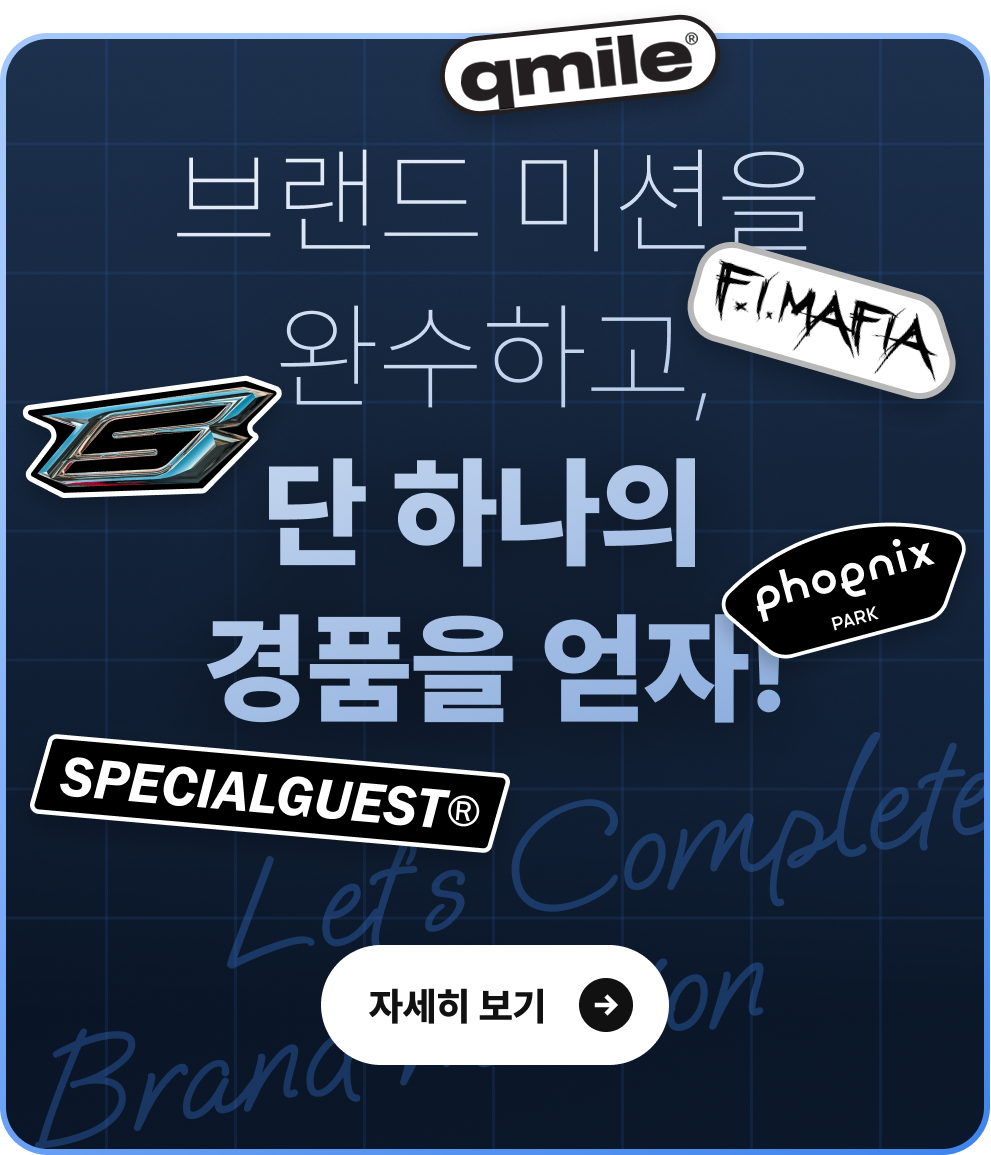
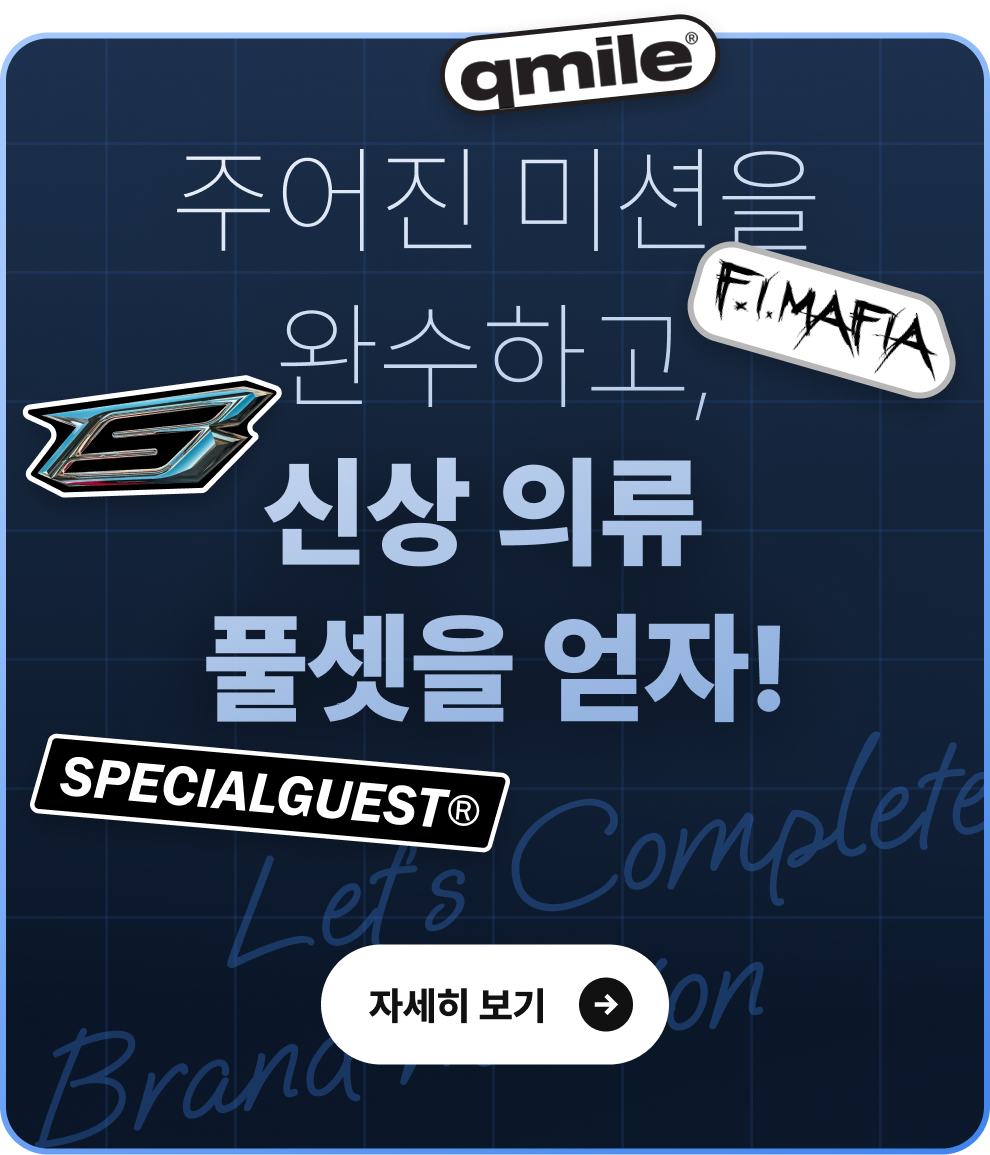
min_1.2.5

diff --git a/lib/view/ranking/v_snowballmarket_home.dart b/lib/view/ranking/v_snowballmarket_home.dart
@@ -563,13 +563,13 @@ class _SnowballMarketHomeViewState extends State<SnowballMarketHomeView> {
                                     fontWeight: FontWeight.bold
                                   ),
                                   ),
-                                  Text('각 브랜드의 미션을 빠르게 완수하고,',
+                                  Text('주어진 미션을 빠르게 완수하고,',
                                     style: TextStyle(
                                         color: Color(0xFFFFFFFF).withOpacity(0.6),
                                         fontSize: 13
                                     ),
                                   ),
-                                  Text('단 하나뿐인 리워드의 주인공이 될 기회를 잡아라!',
+                                  Text('25/26 신상 의류의 주인이 될 기회를 잡아라!',
                                     style: TextStyle(
                                         color: Color(0xFFFFFFFF).withOpacity(0.6),
                                         fontSize: 13
@@ -1494,7 +1494,7 @@ class _SnowballMarketHomeViewState extends State<SnowballMarketHomeView> {
                                     ),
                                     Padding(
                                       padding: EdgeInsets.only(bottom: 8),
-                                      child: Text('단, 황금 눈송이는 1시간에 한 번 랜덤으로 등장해요.\n황금 눈송이가 내리는 위치는 매 정각마다\n눈송이 상점에서 알려드릴게요.',
+                                      child: Text('단, 황금 눈송이는 1시간에 한 번 랜덤으로 등장해요.\n황금 눈송이가 내리는 위치는 매시 정각마다\n눈송이 상점에서 알려드릴게요.',
                                         style: SDSTextStyle.regular.copyWith(
                                           color: Color(0xFFBDD7FF),
                                           fontSize: 13,
@@ -1534,7 +1534,7 @@ class _SnowballMarketHomeViewState extends State<SnowballMarketHomeView> {
                                       ),
                                       Padding(
                                         padding: EdgeInsets.only(bottom: 8),
-                                        child: Text('라이딩하면서 모아둔 하얀 눈송이와 황금 눈송이로\n교환하고 싶은 상품과 교환을 할 수 있어요.\n상품 수령을 위해 이름과 전화번호, 주소를 입력하면 신청 완료!\n만약 현장 수령을 원하시면, 호크 리프트 옆\n눈송이 상품 수령처에서 직접 수령도 가능해요.',
+                                        child: Text('획득한 눈송이로 경품을 교환할 수 있어요.\n호크 리프트 옆 눈송이 상점을 방문해 주세요.',
                                           style: SDSTextStyle.regular.copyWith(
                                             color: Color(0xFFFFFFFF).withOpacity(0.6),
                                             fontSize: 13,
@@ -1544,7 +1544,7 @@ class _SnowballMarketHomeViewState extends State<SnowballMarketHomeView> {
                                       ),
                                       Padding(
                                         padding: EdgeInsets.only(bottom: 8),
-                                        child: Text('상품 교환시 취소 및 변경이 불가능하니 신중하게 골라주세요!',
+                                        child: Text('경품 교환 후 취소 및 변경이 불가능하니 신중하게 골라주세요!',
                                           style: SDSTextStyle.regular.copyWith(
                                             color: Color(0xFFBDD7FF),
                                             fontSize: 13,
@@ -1583,7 +1583,7 @@ class _SnowballMarketHomeViewState extends State<SnowballMarketHomeView> {
                                   Center(
                                     child: Padding(
                                       padding: EdgeInsets.symmetric(vertical: 46, horizontal: 40),
-                                      child: Text('안녕하세요?\n저는 전국에서 내리는 눈송이를 찾아\n유랑하는 상인 하람이에요.\n\n스노빌리지에서는 제가 눈송이를 가득 싣고 오기를 애타게 기다리고 있어요.\n\n눈송이가 왜 필요하냐구요?\n눈송이는 우리 스노 친구들이 더운 여름을 견디기위해 꼭 필요한 자원이랍니다. 그래서 저는 이번 겨울 최대한 많은 눈송이를 모으기 위해 여기저기 유랑하고 있답니다.\n특히 황금 눈송이는 스노빌리지에서 다양한 재화를 만들 수 있는 제일 중요한 자원이에요.\n\n그런데 주말동안 휘닉스 파크에서 눈송이가 내린다는 예보가 있지 뭐에요?\n제가 다양한 상품을 가지고 왔으니, 여러분이 힘을 합쳐 눈송이를 모아서 가져와주세요!\n\n눈송이 값은 섭섭치 않게 쳐드릴게요 :)',
+                                      child: Text('안녕하세요?\n저는 눈송이를 찾아 전국을 유랑하는\n상인 하람이에요.\n\n저의 고향 스노빌리지에서는\n제가 눈송이를 가득 싣고 오기를\n애타게 기다리고 있어요.\n\n눈송이가 왜 필요하냐구요?\n\n눈송이는 우리 스노 친구들이 더운 여름을 견디기 위해 꼭 필요한 자원이랍니다.\n그래서 저는 이번 겨울 최대한 많은 눈송이를 모으기 위해 전국을 유랑하고 있어요.\n\n그런데 이번 겨울 휘닉스 파크에서 대량의 눈송이가 내린다는 예보가 있지 뭐에요?\n제가 다양한 선물을 가지고 왔으니, 여러분이 힘을 합쳐 눈송이를 모아서 가져와주세요!\n\n눈송이 값은 섭섭치 않게 쳐드릴게요~',
                                         style: TextStyle(
                                             color: SDSColor.snowliveBlack,
                                             fontSize: 14
@@ -1710,7 +1710,7 @@ class _SnowballMarketHomeViewState extends State<SnowballMarketHomeView> {
                                     ),
                                     SizedBox(height: 10,),
                                     Text(
-                                      '· 교환이 완료된 상품은 취소나 변경이 불가합니다.',
+                                      '· 교환이 완료된 경품은 취소나 변경이 불가합니다.',
                                       style: TextStyle(
                                         color: Color(0xFFFFFFFF).withOpacity(0.6),
                                         fontSize: 14,
@@ -1718,7 +1718,7 @@ class _SnowballMarketHomeViewState extends State<SnowballMarketHomeView> {
                                     ),
                                     SizedBox(height: 5,),
                                     Text(
-                                      '· 앱에서 교환한 상품은 반드시 현장 행사부스에서 실물 상품으로 교환해야 합니다.',
+                                      '· 앱에서 교환한 경품은 반드시 현장 행사 부스에서 실물 경품으로 교환해야 합니다.',
                                       style: TextStyle(
                                         color: Color(0xFFFFFFFF).withOpacity(0.6),
                                         fontSize: 14,

diff --git a/lib/view/ranking/v_snowballMarket_shop_brand.dart b/lib/view/ranking/v_snowballMarket_shop_brand.dart
@@ -752,7 +752,7 @@ class _SnowballMarketBrandShopViewState extends State<SnowballMarketBrandShopVie
                                   context,
                                   title: '브랜드 미션 응모 완료!',
                                   message: '상단에 표시된 추첨 번호를 확인해주세요.\n'
-                                      '14시까지 경품 수령처로 모여주세요!',
+                                      '19시까지 경품 수령처로 모여주세요!',
                                 );
                               }
                                   : null,
@@ -843,7 +843,7 @@ class _HeroText extends StatelessWidget {
           style: SDSTextStyle.bold.copyWith(color: SDSColor.snowliveWhite, fontSize: 18),
         ),
         const SizedBox(height: 4),
-        Text('아래 미션을 완료하고, 원하는 브랜드 경품애 응모하세요!',
+        Text('아래 미션을 완료하고, 원하는 브랜드 경품에 응모하세요!',
             style: SDSTextStyle.regular.copyWith(fontSize: 13, color: SDSColor.snowliveWhite.withOpacity(0.6))),
         Text('추첨을 통해 단 하나의 상품의 주인공이 되어 보세요!',
             style: SDSTextStyle.regular.copyWith(fontSize: 13, color: SDSColor.snowliveWhite.withOpacity(0.6))),
@@ -1253,7 +1253,7 @@ class _DrawHowTo extends StatelessWidget {
             child: const Text('추첨 방법', style: TextStyle(color: Colors.white, fontSize: 14, fontWeight: FontWeight.bold)),
           ),
           const SizedBox(height: 8),
-          const Text('14시까지 경품 수령처로 모여주세요!',
+          const Text('19시까지 경품 수령처로 모여주세요!',
               style: TextStyle(fontSize: 18, fontWeight: FontWeight.bold, color: Color(0xFFFFFFFF))),
           const SizedBox(height: 15),
           Container(
@@ -1280,7 +1280,7 @@ class _DrawHowTo extends StatelessWidget {
                       crossAxisAlignment: CrossAxisAlignment.center,
                       children: [
                         Text(
-                          '브랜드 미션 응모를 완료하셨다면,\n14시까지 경품 수령처로 모여주세요!\n현장에서 직접 당첨자 추첨을 진행합니다!',
+                          '브랜드 미션 응모를 완료하셨다면,\n19시까지 경품 수령처로 모여주세요!\n현장에서 직접 당첨자 추첨을 진행합니다!',
                           textAlign: TextAlign.center,
                           style: SDSTextStyle.regular.copyWith(color: SDSColor.snowliveWhite, fontSize: 14),
                         ),
@@ -1314,7 +1314,7 @@ class _ExtraPrizeTitle extends StatelessWidget {
       children: [
         const Text('브랜드 미션에 응모하시면,',
             style: TextStyle(fontSize: 18, fontWeight: FontWeight.bold, color: Color(0xFFFFFFFF))),
-        const Text('추가 경품 당첨 기회가 주어집니다!',
+        const Text('추첨을 통해 아래 경품을 추가로 드립니다!',
             style: TextStyle(fontSize: 18, fontWeight: FontWeight.bold, color: Color(0xFFFFFFFF))),
         const SizedBox(height: 4),
         Text('브랜드 미션 응모 시, 자동으로 응모됩니다.',
